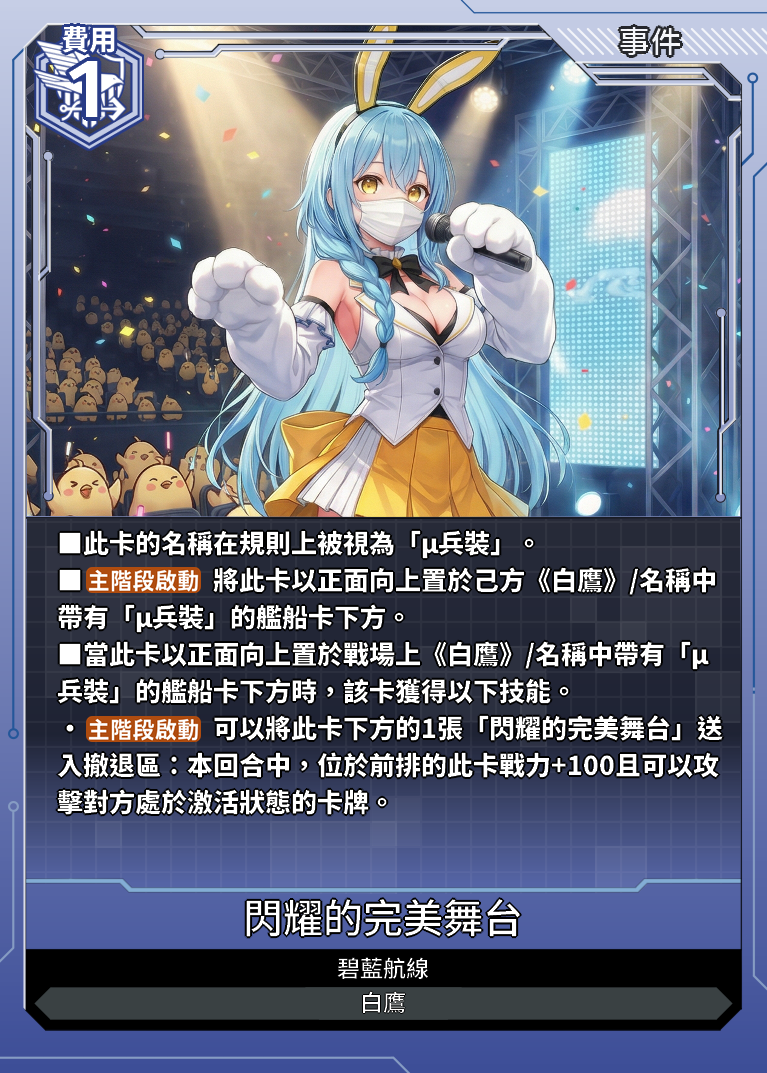
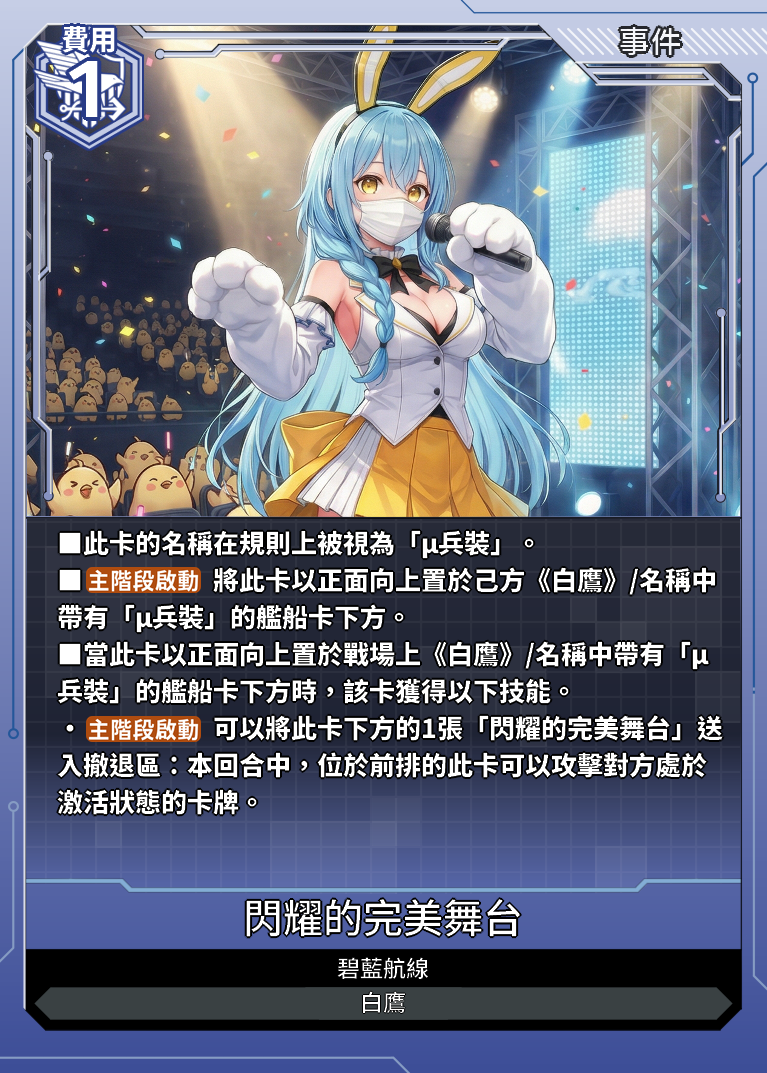
修正閃耀的完美舞台

Changed region(s): [[0.6297, 0.6766, 0.9596, 0.7381], [0.06, 0.7381, 0.5098, 0.7689]]

diff --git a/data.js b/data.js
@@ -24488,7 +24488,7 @@ const cards = [
             "支援範圍": "-",
             "支援值": "-"
         },
-        "card_effect": "■此卡的名稱在規則上被視為「μ兵裝」。■【主階段啟動】將此卡以正面向上置於己方《白鷹》/名稱中帶有「μ兵裝」的艦船卡下方。■當此卡以正面向上置於戰場上《白鷹》/名稱中帶有「μ兵裝」的艦船卡下方時，該卡獲得以下技能。・【主階段啟動】可以將此卡下方的1張「閃耀的完美舞台」送入撤退區：本回合中，位於前排的此卡戰力+100且可以攻擊對方處於激活狀態的卡牌。",
+        "card_effect": "■此卡的名稱在規則上被視為「μ兵裝」。■【主階段啟動】將此卡以正面向上置於己方《白鷹》/名稱中帶有「μ兵裝」的艦船卡下方。■當此卡以正面向上置於戰場上《白鷹》/名稱中帶有「μ兵裝」的艦船卡下方時，該卡獲得以下技能。・【主階段啟動】可以將此卡下方的1張「閃耀的完美舞台」送入撤退區：本回合中，位於前排的此卡可以攻擊對方處於激活狀態的卡牌。",
         "acquisition_method": "CE02-早期測試"
     },
 	{
